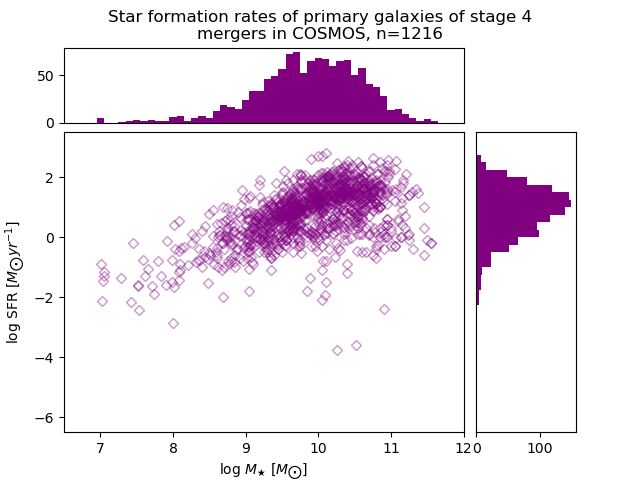
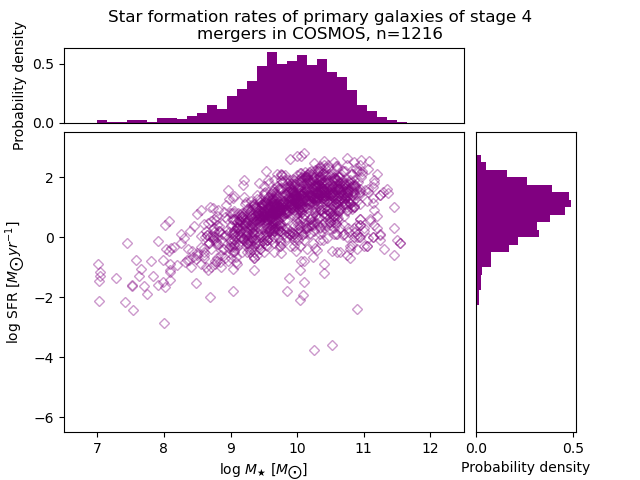
Fixed histogram scaling

diff --git a/plots/plotting_code/main_plots/sfr_mass.py b/plots/plotting_code/main_plots/sfr_mass.py
@@ -2,6 +2,7 @@ import os
 import csv
 import matplotlib.pyplot as plt
 import numpy as np
+import seaborn as sns
 
 path = os.getcwd() + '/PHYS369-SFRMODES'
 
@@ -104,6 +105,8 @@ def generate_separate(data):
 
     for n, j in enumerate(data):
         fig = plt.figure()
+
+        # Figure settings
         fig.suptitle(f'Star formation rates of primary galaxies of stage {n+1}\nmergers in COSMOS, n={len(j[0])}')
         gs = fig.add_gridspec(2, 2, width_ratios=(4, 1), height_ratios=(1, 4),
                               left=0.1, right=0.9, bottom=0.1, top=0.9,
@@ -112,23 +115,31 @@ def generate_separate(data):
         ax_hist_x = fig.add_subplot(gs[0, 0], sharex=ax)
         ax_hist_y = fig.add_subplot(gs[1, 1], sharey=ax)
 
+        # Histogram axes
         ax_hist_x.tick_params(axis='x', bottom=False, labelbottom=False)
         ax_hist_y.tick_params(axis='y', left=False, labelleft=False)
 
+        # Scatter plot
         ax.plot(j[0], j[1], ms=ms, linestyle='', marker=symbols[n], alpha=0.4, fillstyle='none' ,c=colours[n], label=f'Stage {n+1}')
         ax.set_xlabel(r'log $M_{\bigstar}$ [$M_{\bigodot}$]')
         ax.set_ylabel(r'log SFR [$M_{\bigodot} yr^{-1}]$')
         ax.set_ylim(-6.5, 3.5)
-        ax.set_xlim(6.5, 12)
-        
-        binwidth = 0.25
-        xymax = max(np.max(np.abs(j[0])), np.max(np.abs(j[1])))
-        lim = (int(xymax/binwidth) + 1) * binwidth
+        ax.set_xlim(6.5, 12.5)
 
-        bins_x = np.arange(-lim, lim + binwidth, 0.1)
+        # ax.contour(j[0], j[1])
+        
+        # Histogram
+        binwidth = 0.25
+        xymax = max(max(j[0]), max(j[1]))
+        lim = (int(xymax/binwidth) + 1) * binwidth
+        bins_x = np.arange(-lim, lim + binwidth, 0.15)
         bins_y = np.arange(-lim, lim + binwidth, binwidth)
-        ax_hist_x.hist(j[0], bins=bins_x, color=colours[n])
-        ax_hist_y.hist(j[1], bins=bins_y, color=colours[n], orientation='horizontal')
+        ax_hist_x.hist(j[0], bins=bins_x, color=colours[n], density=True)
+        ax_hist_y.hist(j[1], bins=bins_y, color=colours[n], density=True, orientation='horizontal')
+
+        ax_hist_x.set_ylabel('Probability density')
+        ax_hist_y.set_xlabel('Probability density')
+        
         plt.savefig(path+f'/plots/output/stage_{n+1}')
         plt.show()
 
